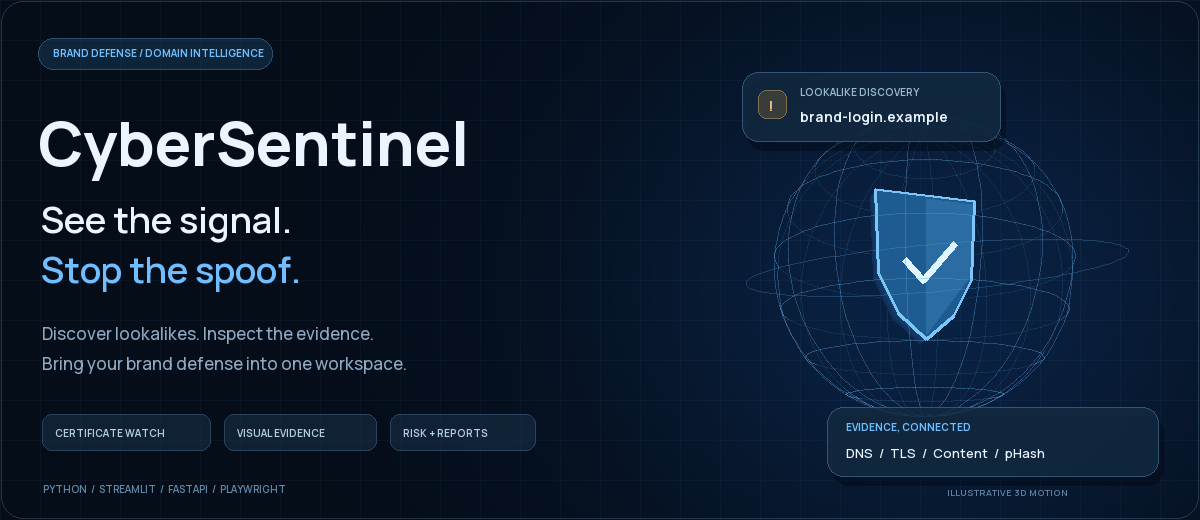
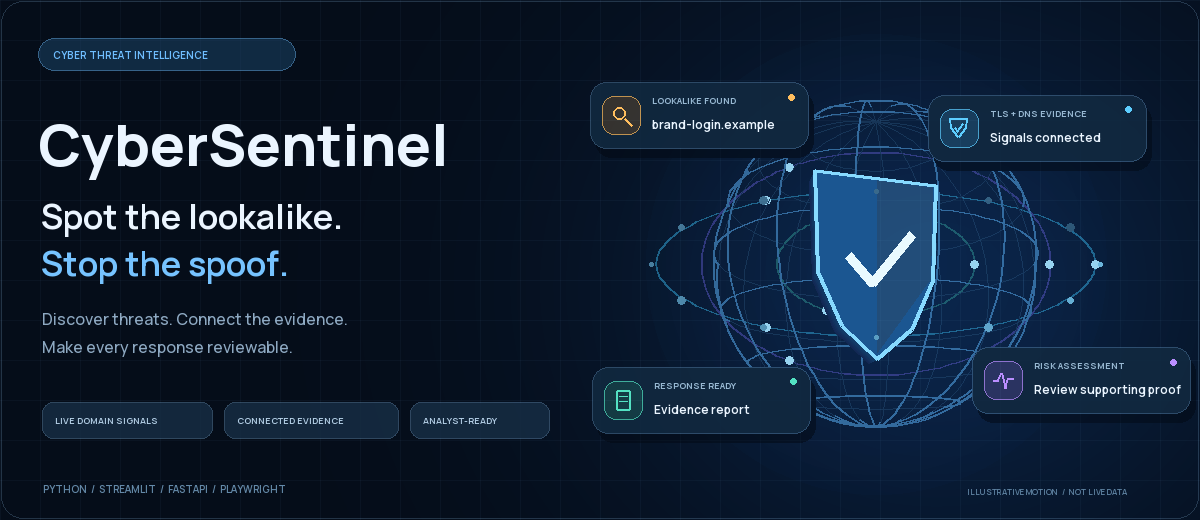
docs: upgrade animated README hero

diff --git a/docs/render_readme_visuals.py b/docs/render_readme_visuals.py
@@ -53,7 +53,7 @@ def panel(draw, box):
                            outline=(119, 177, 224, 86), width=1)
 
 
-def project(point, yaw, cx=925, cy=266):
+def project(point, yaw, cx=876, cy=264):
     x, y, z = point
     x, z = x*math.cos(yaw)+z*math.sin(yaw), -x*math.sin(yaw)+z*math.cos(yaw)
     y, z = y*.96-z*.28, y*.28+z*.96
@@ -62,72 +62,149 @@ def project(point, yaw, cx=925, cy=266):
 
 
 def hero(t):
-    im = background(1200, 520)
-    d = ImageDraw.Draw(im, 'RGBA')
-    d.rounded_rectangle((38, 38, 272, 69), radius=15, fill=(29, 74, 112, 95),
-                        outline=(103, 181, 244, 80))
-    label(d, (53, 46), 'BRAND DEFENSE / DOMAIN INTELLIGENCE', 10, BLUE, 700)
-    label(d, (38, 100), 'CyberSentinel', 61, WHITE, 750)
-    label(d, (41, 194), 'See the signal.', 36, WHITE, 600)
-    label(d, (41, 244), 'Stop the spoof.', 36, BLUE, 600)
-    label(d, (42, 321), 'Discover lookalikes. Inspect the evidence.', 17, MUTED)
-    label(d, (42, 351), 'Bring your brand defense into one workspace.', 17, MUTED)
-    for x, text, width in [(42, 'CERTIFICATE WATCH', 168), (224, 'VISUAL EVIDENCE', 152), (390, 'RISK + REPORTS', 145)]:
-        d.rounded_rectangle((x, 414, x+width, 450), radius=10,
-                            fill=(22, 45, 68, 160), outline=(112, 160, 202, 68))
-        label(d, (x+13, 426), text, 10, (178, 205, 228), 650)
-    label(d, (43, 482), 'PYTHON  /  STREAMLIT  /  FASTAPI  /  PLAYWRIGHT', 10, (100, 137, 168), 600)
+    base = background(1200, 520).convert('RGBA')
+    im = Image.new('RGBA', base.size, (0, 0, 0, 0))
 
-    # A rotating three-dimensional wireframe enclosing an extruded shield.
+    # Layered translucent halos make the core read as a luminous 3D object.
+    halo = Image.new('RGBA', im.size, (0, 0, 0, 0))
+    hd = ImageDraw.Draw(halo, 'RGBA')
+    for radius in range(230, 29, -20):
+        alpha = max(2, 15 - radius // 20)
+        hd.ellipse((876-radius, 264-radius, 876+radius, 264+radius),
+                   fill=(36, 119, 255, alpha))
+    im = Image.alpha_composite(im, halo)
+    d = ImageDraw.Draw(im, 'RGBA')
+
+    d.rounded_rectangle((38, 38, 295, 70), radius=16, fill=(29, 74, 112, 120),
+                        outline=(103, 181, 244, 130))
+    label(d, (53, 48), 'CYBER THREAT INTELLIGENCE', 10, BLUE, 700)
+    label(d, (38, 104), 'CyberSentinel', 58, WHITE, 750)
+    label(d, (41, 192), 'Spot the lookalike.', 34, WHITE, 650)
+    label(d, (41, 239), 'Stop the spoof.', 34, (118, 195, 255), 650)
+    label(d, (42, 307), 'Discover threats. Connect the evidence.', 16, MUTED)
+    label(d, (42, 335), 'Make every response reviewable.', 16, MUTED)
+    for x, text, width in [
+        (42, 'LIVE DOMAIN SIGNALS', 170),
+        (224, 'CONNECTED EVIDENCE', 174),
+        (410, 'ANALYST-READY', 139),
+    ]:
+        d.rounded_rectangle((x, 402, x+width, 438), radius=11,
+                            fill=(22, 45, 68, 210), outline=(112, 160, 202, 100))
+        label(d, (x+13, 414), text, 9, (178, 205, 228), 650)
+    label(d, (43, 482), 'PYTHON  /  STREAMLIT  /  FASTAPI  /  PLAYWRIGHT',
+          10, (100, 137, 168), 600)
+
+    # A rotating wireframe globe encloses an extruded, softly glowing shield.
     yaw = TAU*t
+    radius = 158
     paths = []
     for latitude in range(-60, 61, 20):
         a = math.radians(latitude)
-        paths.append([(147*math.cos(a)*math.cos(j*TAU/96),
-                       147*math.sin(a), 147*math.cos(a)*math.sin(j*TAU/96)) for j in range(97)])
+        paths.append([(radius*math.cos(a)*math.cos(j*TAU/96),
+                       radius*math.sin(a), radius*math.cos(a)*math.sin(j*TAU/96))
+                      for j in range(97)])
     for longitude in range(0, 180, 24):
         a = math.radians(longitude)
-        paths.append([(147*math.cos(j*TAU/96)*math.cos(a),
-                       147*math.sin(j*TAU/96), 147*math.cos(j*TAU/96)*math.sin(a)) for j in range(97)])
+        paths.append([(radius*math.cos(j*TAU/96)*math.cos(a),
+                       radius*math.sin(j*TAU/96), radius*math.cos(j*TAU/96)*math.sin(a))
+                      for j in range(97)])
     segments = []
     for path in paths:
         points = [project(point, yaw) for point in path]
         segments.extend((a, b) for a, b in zip(points, points[1:]))
+
+    # Three tilted rings orbit at different speeds to emphasize depth.
+    for ring_index, (rx, ry, tilt, color) in enumerate([
+        (236, 73, .38, (61, 198, 255, 110)),
+        (208, 112, -.58, (119, 112, 255, 92)),
+        (188, 54, 1.02, (74, 222, 209, 80)),
+    ]):
+        angle = np.linspace(0, TAU, 180)
+        phase = TAU*t*(1 if ring_index != 1 else -.7)
+        orbit = [(876+rx*math.cos(a+phase)*math.cos(tilt),
+                  264+ry*math.sin(a+phase),
+                  rx*math.cos(a+phase)*math.sin(tilt)) for a in angle]
+        d.line([(x, y) for x, y, _ in orbit], fill=color, width=2)
+        for marker in range(3):
+            a = phase+marker*TAU/3
+            x = 876+rx*math.cos(a)*math.cos(tilt)
+            y = 264+ry*math.sin(a)
+            d.ellipse((x-4, y-4, x+4, y+4), fill=(163, 226, 255, 235))
+
     for front in (False, True):
         for a, b in segments:
             depth = (a[2]+b[2])/2
             if (depth > 0) == front:
-                alpha = 82 if front else 28
-                d.line((a[0], a[1], b[0], b[1]), fill=(91, 163, 223, alpha), width=1)
-        if not front:
-            sway = .30+.13*math.sin(TAU*t)
-            shape = [(-53,-74),(53,-74),(48,12),(28,51),(0,75),(-28,51),(-48,12)]
-            for z in range(-20, 1, 2):
-                face = [project((x, y, z), sway)[:2] for x, y in shape]
-                d.polygon(face, fill=(18, 64+z, 108+z, 255))
-            face = [project((x,y,4),sway)[:2] for x,y in shape]
-            d.polygon(face, fill=(29, 91, 144, 255))
-            d.line(face+[face[0]], fill=(124, 198, 249, 255), width=3)
-            facet = [project((x,y,6),sway)[:2] for x,y in [(0,-70),(50,-70),(45,10),(0,70)]]
-            d.polygon(facet, fill=(69, 142, 198, 88))
-            check = [project((x,y,10),sway)[:2] for x,y in [(-24,-2),(-5,18),(29,-23)]]
-            d.line(check, fill=(223, 245, 255, 255), width=7, joint='curve')
-    # Orbit lines and floating glass evidence tiles give the composition depth.
-    orbit = [project((195*math.cos(a), 44*math.sin(a), 65*math.sin(a)), -.26)[:2]
-             for a in np.linspace(0, TAU, 160)]
-    d.line(orbit, fill=(90, 164, 220, 66), width=1)
-    y = 72+5*math.sin(TAU*t)
-    panel(d, (742, y, 1000, y+69))
-    d.rounded_rectangle((758,y+18,786,y+46),radius=8,fill=(165,120,51,70),outline=(211,171,103,120))
-    label(d,(768,y+23),'!',15,(231,192,127),700)
-    label(d,(800,y+13),'LOOKALIKE DISCOVERY',10,(153,185,211),650)
-    label(d,(800,y+35),'brand-login.example',14,WHITE,650)
-    y = 407-5*math.sin(TAU*t)
-    panel(d,(827,y,1158,y+69))
-    label(d,(846,y+13),'EVIDENCE, CONNECTED',10,BLUE,700)
-    label(d,(846,y+37),'DNS  /  TLS  /  Content  /  pHash',13,WHITE,550)
-    label(d,(947,486),'ILLUSTRATIVE 3D MOTION',9,(94,130,161),600)
-    return im
+                alpha = 132 if front else 42
+                d.line((a[0], a[1], b[0], b[1]),
+                       fill=(91, 178, 250, alpha), width=2 if front else 1)
+
+    sway = .30+.13*math.sin(TAU*t)
+    shield = [(-65, -91), (65, -91), (59, 15), (35, 66),
+              (0, 96), (-35, 66), (-59, 15)]
+    for z in range(-25, 1, 2):
+        face = [project((x, y, z), sway)[:2] for x, y in shield]
+        d.polygon(face, fill=(18, 64+z, 108+z, 255))
+    face = [project((x, y, 4), sway)[:2] for x, y in shield]
+    d.polygon(face, fill=(27, 86, 145, 255))
+    d.line(face+[face[0]], fill=(135, 218, 255, 255), width=4, joint='curve')
+    facet = [project((x, y, 6), sway)[:2]
+             for x, y in [(0, -88), (61, -88), (56, 13), (0, 90)]]
+    d.polygon(facet, fill=(80, 157, 223, 90))
+    check = [project((x, y, 10), sway)[:2]
+             for x, y in [(-31, -3), (-7, 23), (36, -32)]]
+    d.line(check, fill=(233, 250, 255, 255), width=9, joint='curve')
+
+    def signal_card(x, y, heading, detail, icon, accent, bob):
+        x += 8*math.sin(bob)
+        y += 7*math.cos(bob)
+        panel(d, (x, y, x+218, y+66))
+        d.rounded_rectangle((x+12, y+14, x+50, y+52), radius=12,
+                            fill=(*accent, 48), outline=(*accent, 190), width=1)
+        cx, cy = x+31, y+33
+        if icon == 'search':
+            d.ellipse((cx-8, cy-8, cx+4, cy+4), outline=(*accent, 255), width=2)
+            d.line((cx+3, cy+3, cx+10, cy+10), fill=(*accent, 255), width=2)
+        elif icon == 'shield':
+            points = [(cx-8, cy-9), (cx+8, cy-9), (cx+7, cy+1),
+                      (cx, cy+10), (cx-7, cy+1)]
+            d.line(points+[points[0]], fill=(*accent, 255), width=2, joint='curve')
+            d.line((cx-4, cy, cx-1, cy+4, cx+5, cy-4),
+                   fill=(*accent, 255), width=2, joint='curve')
+        elif icon == 'pulse':
+            d.line((cx-10, cy, cx-5, cy, cx-2, cy-7, cx+2, cy+8,
+                    cx+5, cy-2, cx+10, cy-2), fill=(*accent, 255), width=2)
+        else:
+            d.rounded_rectangle((cx-7, cy-10, cx+7, cy+10), radius=2,
+                                outline=(*accent, 255), width=2)
+            d.line((cx-4, cy-3, cx+4, cy-3), fill=(*accent, 255), width=1)
+            d.line((cx-4, cy+2, cx+4, cy+2), fill=(*accent, 255), width=1)
+        label(d, (x+62, y+12), heading, 9, (153, 185, 211), 700)
+        label(d, (x+62, y+34), detail, 12, WHITE, 650)
+        d.ellipse((x+198, y+12, x+204, y+18), fill=(*accent, 255))
+
+    # Independent animated cards orbit the core like movable evidence nodes.
+    signal_card(590, 75, 'LOOKALIKE FOUND', 'brand-login.example',
+                'search', (255, 190, 94), TAU*t)
+    signal_card(920, 95, 'TLS + DNS EVIDENCE', 'Signals connected',
+                'shield', (94, 206, 255), TAU*t+1.6)
+    signal_card(972, 354, 'RISK ASSESSMENT', 'Review supporting proof',
+                'pulse', (186, 142, 255), TAU*t+3.1)
+    signal_card(600, 367, 'RESPONSE READY', 'Evidence report',
+                'report', (83, 225, 194), TAU*t+4.7)
+
+    # Small particles travel along the main orbit on each loop.
+    for i in range(12):
+        angle = TAU*(t+i/12)
+        x = 876+242*math.cos(angle)*math.cos(.38)
+        y = 264+73*math.sin(angle)
+        r = 2+(i % 3)
+        d.ellipse((x-r, y-r, x+r, y+r),
+                  fill=(128, 215, 255, max(35, 210-i*12)))
+
+    label(d, (967, 486), 'ILLUSTRATIVE MOTION  /  NOT LIVE DATA',
+          8, (94, 130, 161), 600)
+    return Image.alpha_composite(base, im)
 
 
 def workflow(t):
@@ -159,7 +236,7 @@ def workflow(t):
 
 
 def export(name, render, frames=48):
-    pictures = [render(i/frames) for i in range(frames)]
+    pictures = [render(i/frames).convert('RGB') for i in range(frames)]
     pictures[0].save(OUT/f'{name}-poster.png', optimize=True)
     palette = pictures[0].quantize(colors=192)
     indexed = [picture.quantize(palette=palette, dither=Image.Dither.NONE) for picture in pictures]

diff --git a/README.md b/README.md
@@ -2,8 +2,10 @@
 
 <picture>
   <source media="(prefers-reduced-motion: reduce)" srcset="docs/assets/cybersentinel-hero-poster.png">
-  <img src="docs/assets/cybersentinel-hero.gif" alt="CyberSentinel: rotating 3D wireframe shield with floating discovery and evidence panels" width="1200">
+  <img src="docs/assets/cybersentinel-hero.gif" alt="CyberSentinel: a rotating 3D threat globe surrounded by moving discovery, evidence, risk, and response cards" width="1200">
 </picture>
+
+<sub>Looping 3D illustration with a rotating threat globe and moving signal cards; motion is illustrative, not live monitoring data.</sub>
 
 **Brand impersonation & phishing intelligence, in one workspace.**
 
@@ -25,7 +27,7 @@ Discover lookalike domains, investigate the evidence, and prepare a confident re
   <img src="docs/assets/dashboard-demo.png" alt="Glass dashboard showing severity, brand exposure, and discovery activity with synthetic example data" width="1200">
 </a>
 
-<sub>Illustrative demo workspace using synthetic `.example` domains. Motion graphics are illustrative; operational telemetry comes from the application's monitoring service.</sub>
+<sub>Illustrative dashboard workspace using synthetic `.example` domains; it does not display live monitoring telemetry.</sub>
 
 <table>
 <tr>
@@ -196,7 +198,7 @@ npm ci
 npm run build
 ```
 
-The README animations are original, locally rendered GIFs. Regenerate them from the repository root:
+The README animations are original, locally rendered GIFs. The hero loops a rotating 3D threat globe with moving signal cards and orbiting icons; GitHub renders it as an animation, not a pointer-controlled canvas. Regenerate the animations from the repository root:
 
 ```bash
 python docs/render_readme_visuals.py
